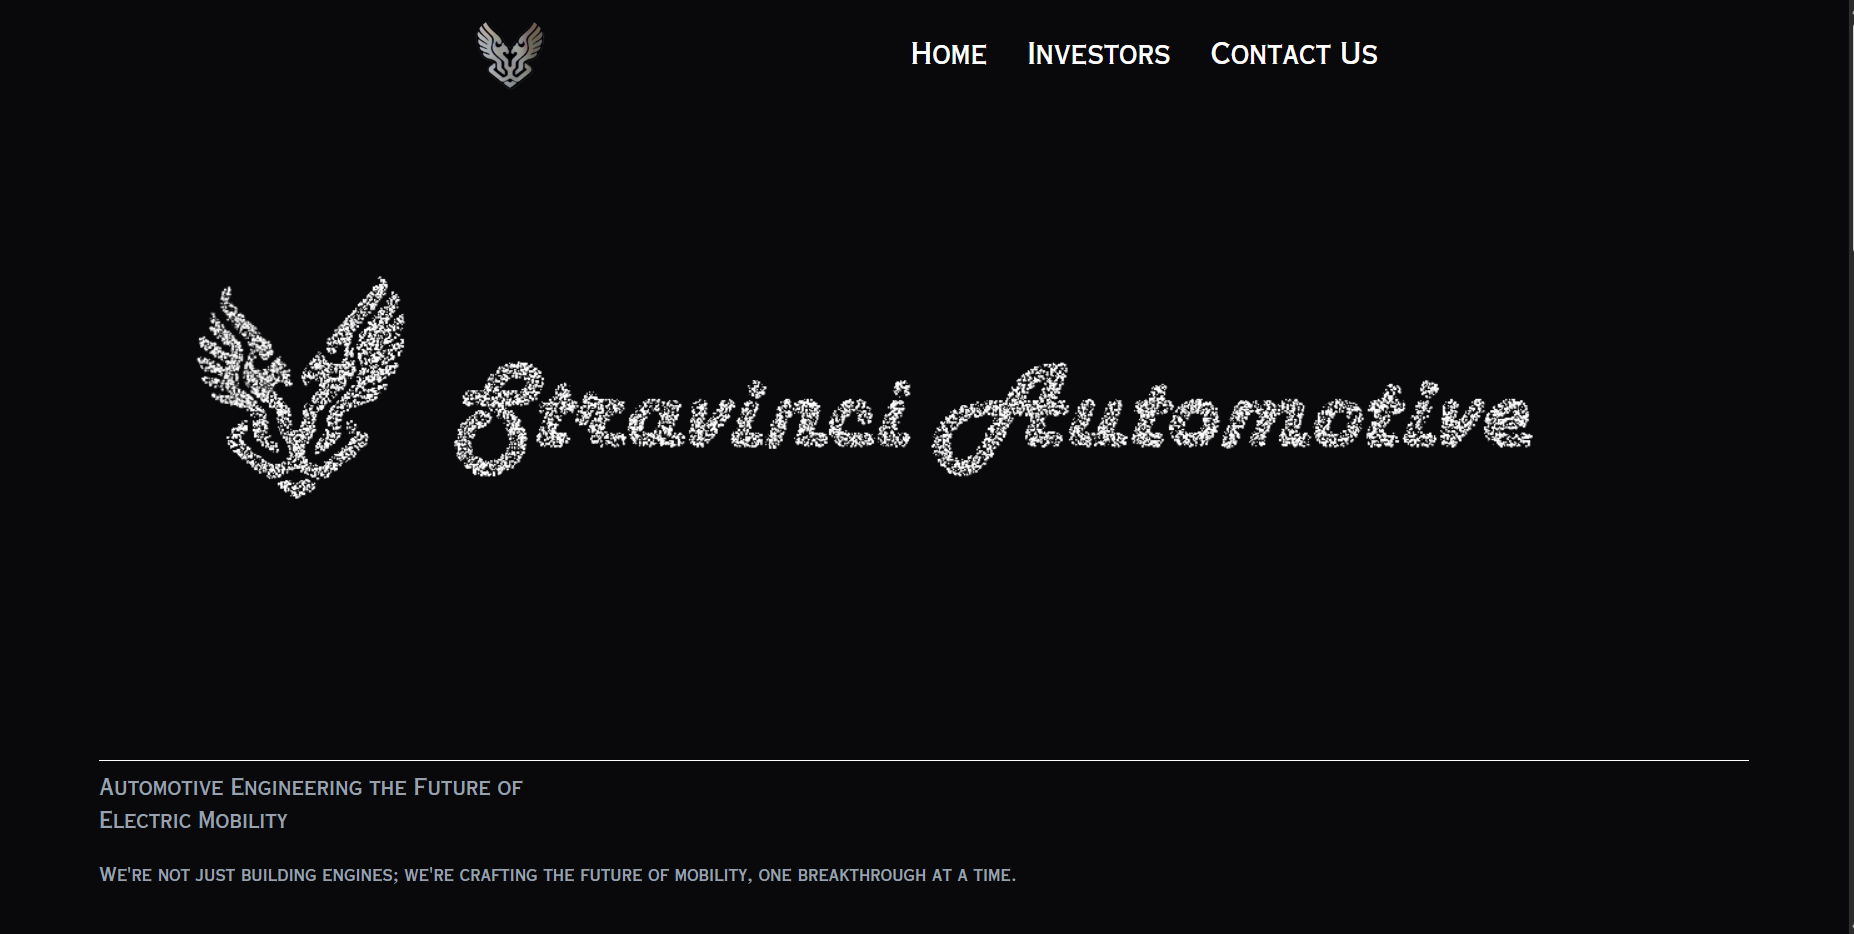
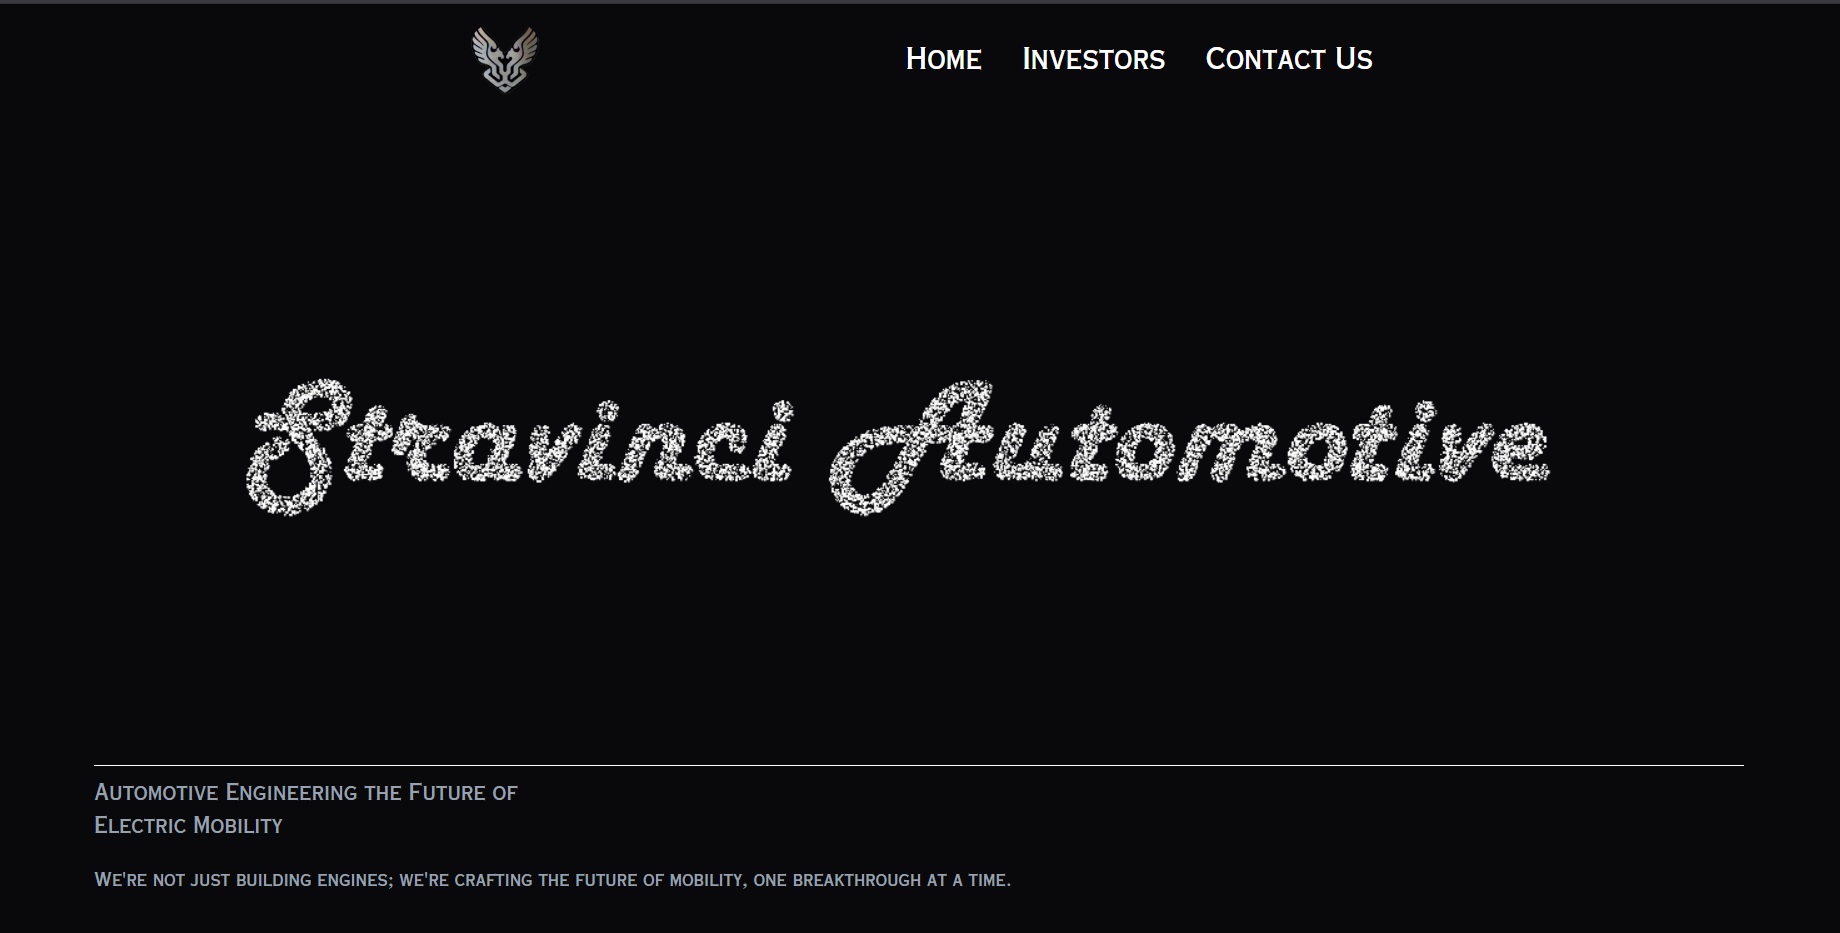
final7

diff --git a/src/pages/Particles.jsx b/src/pages/Particles.jsx
@@ -36,23 +36,28 @@ export const StravinciParticle = () => {
       const fontSize = isMobile ? Math.min(canvas.width /5, 55) : Math.min(canvas.width / 5, 120);
       ctx.font = `lighter ${fontSize}px 'Harlow', mono`;
     
-      const text = "Stravinci Automotive";
+      const text = "Stravinci";
       const textMetrics = ctx.measureText(text);
       const textWidth = textMetrics.width;
+      const text2="Automotive";
+      const textMetrics2 = ctx.measureText(text2);
+      const textWidth2 = textMetrics2.width;
     
       // Calculate overall width including logos
       const logoSize = fontSize *1; // logo height roughly 80% of fontSize
-      const totalWidth = !isMobile ? logoSize + 10 + textWidth + 10 + logoSize : textWidth; // logos + spacing
+      const totalWidth = !isMobile ? textWidth + 10 + textWidth2 : textWidth; // logos + spacing
     
       const startX = (canvas.width - totalWidth) / 3;
-      const centerY = canvas.height /2 + fontSize / 3;
+      const centerY = (isMobile?canvas.height /2.2: canvas.height/2) + fontSize / 3;
     
     
       
     
       // --- Draw Text ---
-      const textX = !isMobile ? startX + logoSize  : startX;
-      ctx.fillText(text, textX, centerY-logoSize/5);
+      const textX = !isMobile ? startX + logoSize -50 : startX+30;
+      ctx.fillText(text, textX-50, centerY-logoSize/5);
+
+      ctx.fillText(text2, isMobile ? startX : textX*3.5, isMobile ? (centerY-logoSize/5)*1.3 : (centerY-logoSize/5));
     
       
     
